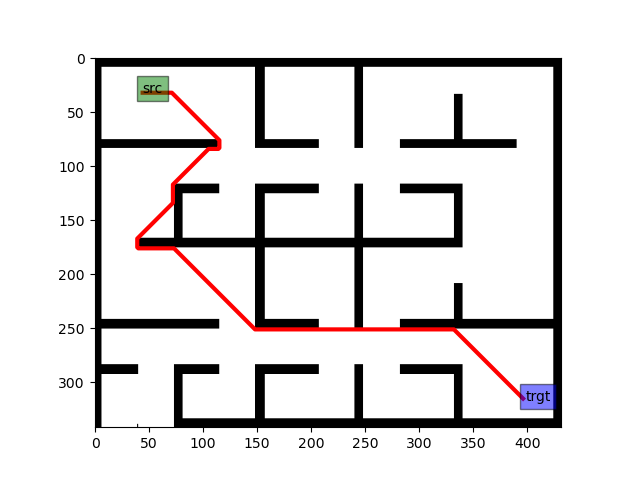
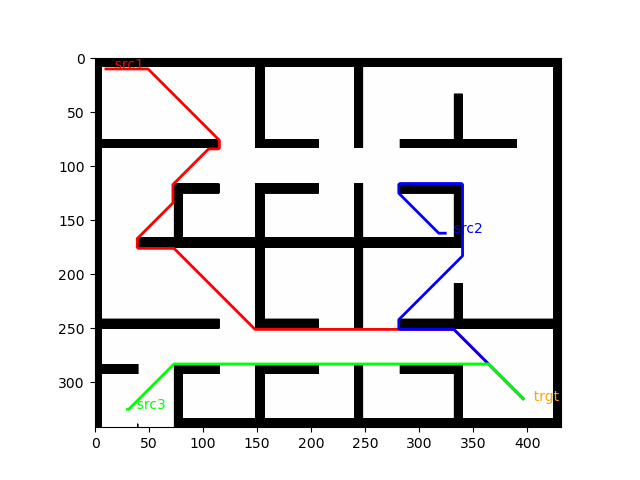
Formalization

diff --git a/demo1.py b/demo1.py
@@ -1,4 +1,6 @@
+import matplotlib
 import matplotlib.pyplot as plt
+
 import numpy as np
 from PIL import Image
 
@@ -9,6 +11,11 @@ import path_planner
 # -----------------------------------------------------------------------------
 
 MAP_FILE = "./map1.jpg"
+MAX_HORIZONS = 2000
+SHOW_INFO = True
+STEP_X = 1
+STEP_Y = 1
+
 
 # -----------------------------------------------------------------------------
 def get_obstacle_map(fn):
@@ -33,23 +40,53 @@ def get_obstacle_map(fn):
 
 # -----------------------------------------------------------------------------
 
+def extract_traj(src, trgt, descendantX_arr, descendantY_arr, policy, max_horizons):
+    trajs = np.zeros((max_horizons + 1, 2), dtype=np.int32)    
+    u = np.zeros((max_horizons), dtype=np.int32)    
+    
+    trajs[0, :] = [src[0], src[1]]
+
+    for k in range(max_horizons):
+        trajs[k + 1, :] = [descendantX_arr[trajs[k, 0], trajs[k, 1]], descendantY_arr[trajs[k, 0], trajs[k, 1]]]
+        u[k] = policy[trajs[k, 0], trajs[k, 1]]
+                
+        if (abs(trajs[k+1, 0]-trgt[0]) + abs(trajs[k+1, 1]-trgt[1])) < 1:
+            break
+   
+    return trajs[:k], u[:k]
+
+# -----------------------------------------------------------------------------
+
 cost_mat = get_obstacle_map(MAP_FILE)
 
-src = np.array([100, 482])
+# Units are in pixels!
+src1 = np.array([100, 482])
+src2 = np.array([10, 270])
+src3 = np.array([130, 10])
+
 trgt = np.array([469, 10])
 
 start = time.time()
 
-trajs = path_planner.terrain_value_iteration(cost_mat, src, trgt, np.array([1, 1]), 2000, 0)
+descendantX_arr, descendantY_arr, policy = path_planner.terrain_value_iteration(cost_mat, trgt, np.array([STEP_X, STEP_Y]), MAX_HORIZONS, SHOW_INFO)
+trajs1, u1 = extract_traj(src1, trgt, descendantX_arr, descendantY_arr, policy, MAX_HORIZONS)
+trajs2, u2 = extract_traj(src2, trgt, descendantX_arr, descendantY_arr, policy, MAX_HORIZONS)
+trajs3, u3 = extract_traj(src3, trgt, descendantX_arr, descendantY_arr, policy, MAX_HORIZONS)
 
 end = time.time()
 print("Completion time: ", end - start, " second(s)")
 
 fig, ax = plt.subplots()
-ax.imshow(np.transpose(cost_mat), cmap="gray_r")
-trajs = np.array(trajs)
-ax.plot(trajs[:,0], trajs[:,1], color='red', linewidth=3)
-ax.text(src[0], src[1], 'src', bbox=dict(facecolor='green', alpha=0.5))
-ax.text(trgt[0], trgt[1], 'trgt', bbox=dict(facecolor='blue', alpha=0.5))
+ax.imshow(np.transpose(cost_mat), cmap='gray_r', vmin=0, vmax=255)
+
+ax.plot(trajs1[:,0], trajs1[:,1], color='red', linewidth=2)
+ax.plot(trajs2[:,0], trajs2[:,1], color='blue', linewidth=2)
+ax.plot(trajs3[:,0], trajs3[:,1], color='lime', linewidth=2)
+
+ax.text(src1[0], src1[1], "  src1", color='red')
+ax.text(src2[0], src2[1], "  src2", color='blue')
+ax.text(src3[0], src3[1], "  src3", color='lime')
+
+ax.text(trgt[0], trgt[1], "  trgt", color='orange')
 
 plt.show()

diff --git a/demo2.py b/demo2.py
@@ -1,4 +1,6 @@
+import matplotlib
 import matplotlib.pyplot as plt
+
 import numpy as np
 from PIL import Image
 
@@ -9,6 +11,11 @@ import path_planner
 # -----------------------------------------------------------------------------
 
 MAP_FILE = "./map2.jpg"
+MAX_HORIZONS = 2000
+SHOW_INFO = True
+STEP_X = 1
+STEP_Y = 1
+
 
 # -----------------------------------------------------------------------------
 def get_obstacle_map(fn):
@@ -33,22 +40,53 @@ def get_obstacle_map(fn):
 
 # -----------------------------------------------------------------------------
 
+def extract_traj(src, trgt, descendantX_arr, descendantY_arr, policy, max_horizons):
+    trajs = np.zeros((max_horizons + 1, 2), dtype=np.int32)    
+    u = np.zeros((max_horizons), dtype=np.int32)    
+    
+    trajs[0, :] = [src[0], src[1]]
+
+    for k in range(max_horizons):
+        trajs[k + 1, :] = [descendantX_arr[trajs[k, 0], trajs[k, 1]], descendantY_arr[trajs[k, 0], trajs[k, 1]]]
+        u[k] = policy[trajs[k, 0], trajs[k, 1]]
+                
+        if (abs(trajs[k+1, 0]-trgt[0]) + abs(trajs[k+1, 1]-trgt[1])) < 1:
+            break
+   
+    return trajs[:k], u[:k]
+
+# -----------------------------------------------------------------------------
+
 cost_mat = get_obstacle_map(MAP_FILE)
 
-src = np.array([44, 32])
+# Units are in pixels!
+src1 = np.array([10, 10])
+src2 = np.array([324, 162])
+src3 = np.array([30, 325])
+
 trgt = np.array([398, 317])
 
 start = time.time()
 
-trajs = path_planner.terrain_value_iteration(cost_mat, src, trgt, np.array([1, 1]), 2000, 0)
+descendantX_arr, descendantY_arr, policy = path_planner.terrain_value_iteration(cost_mat, trgt, np.array([STEP_X, STEP_Y]), MAX_HORIZONS, SHOW_INFO)
+trajs1, u1 = extract_traj(src1, trgt, descendantX_arr, descendantY_arr, policy, MAX_HORIZONS)
+trajs2, u2 = extract_traj(src2, trgt, descendantX_arr, descendantY_arr, policy, MAX_HORIZONS)
+trajs3, u3 = extract_traj(src3, trgt, descendantX_arr, descendantY_arr, policy, MAX_HORIZONS)
 
 end = time.time()
 print("Completion time: ", end - start, " second(s)")
 
 fig, ax = plt.subplots()
-ax.imshow(np.transpose(cost_mat), cmap="gray_r")
-ax.plot(trajs[:,0], trajs[:,1], color='red', linewidth=3)
-ax.text(src[0], src[1], 'src', bbox=dict(facecolor='green', alpha=0.5))
-ax.text(trgt[0], trgt[1], 'trgt', bbox=dict(facecolor='blue', alpha=0.5))
+ax.imshow(np.transpose(cost_mat), cmap='gray_r', vmin=0, vmax=255)
+
+ax.plot(trajs1[:,0], trajs1[:,1], color='red', linewidth=2)
+ax.plot(trajs2[:,0], trajs2[:,1], color='blue', linewidth=2)
+ax.plot(trajs3[:,0], trajs3[:,1], color='lime', linewidth=2)
+
+ax.text(src1[0], src1[1], "  src1", color='red')
+ax.text(src2[0], src2[1], "  src2", color='blue')
+ax.text(src3[0], src3[1], "  src3", color='lime')
+
+ax.text(trgt[0], trgt[1], "  trgt", color='orange')
 
 plt.show()

diff --git a/setup.py b/setup.py
@@ -2,6 +2,20 @@ from setuptools import Extension, setup
 from Cython.Build import cythonize
 import numpy
 
+import os
+import glob
+
+pyd = glob.glob('*.pyd', recursive=True)
+c = glob.glob('*.c', recursive=True)
+
+if len(pyd) > 0:
+    for f in pyd:
+        os.remove(f)
+
+if len(c) > 0:
+    for f in c:
+        os.remove(f)
+
 ext_modules = [
     Extension(
         "path_planner",
